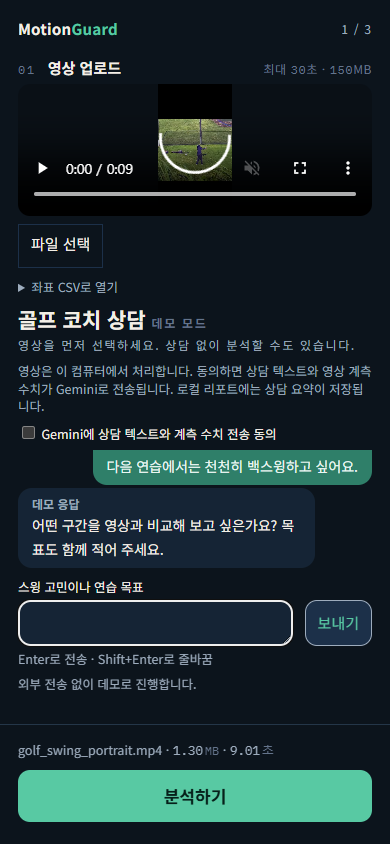
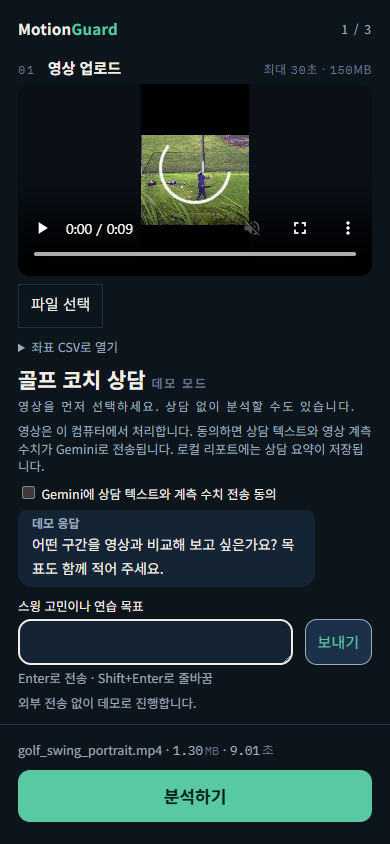
Fill the vertical coaching layout on both screen sizes

Changed region(s): [[0.0308, 0.1232, 0.9538, 0.8626]]

diff --git a/swing3d/web/style.css b/swing3d/web/style.css
@@ -73,9 +73,6 @@ td { text-align: right; white-space: nowrap; }
 .legend { display: flex; gap: 16px; flex-wrap: wrap; margin-top: 12px; font-size: 12px; }
 .legend i { display: inline-block; width: 8px; height: 2px; background: var(--signal); vertical-align: middle; }
 .visually-hidden { position: absolute; width: 1px; height: 1px; clip-path: inset(50%); overflow: hidden; white-space: nowrap; }
-@media (min-width: 1280px) { .setup { grid-template-columns: 1fr 1fr; } }
-@media (max-width: 880px) { .stills { grid-template-columns: repeat(2, minmax(0, 1fr)); } }
-@media (max-width: 490px) { .stills { grid-template-columns: 1fr; } .instrument { width: calc(100% - 24px); margin-top: 24px; } }
 @media (prefers-reduced-motion: reduce) { * { scroll-behavior: auto !important; } }
 .finding-layout { display:grid; gap:16px; }
 .result-block { border-top:1px solid var(--rule); padding-top:12px; min-width:0; }
@@ -96,7 +93,6 @@ td { text-align: right; white-space: nowrap; }
 .viewer-ruler button:nth-child(even) { top:12px; }
 .viewer-ruler button:last-child { transform:translateX(-100%); }
 .finding-band { position:absolute; top:0; height:2px; background:var(--signal); }
-@media(min-width:1280px) { .finding-layout { grid-template-columns:1fr 1fr; } }
 
 
 .comparison-panes { display:grid; grid-template-columns:repeat(2,minmax(0,1fr)); gap:16px; padding:0 16px 12px; }
@@ -118,13 +114,11 @@ td { text-align: right; white-space: nowrap; }
 .finding-options button { text-align:left; }
 .finding-options .finding-numbers { display:grid; font-size:12px; }
 .finding-options .finding-numbers > span { white-space:nowrap; }
-.comparison-panes .video-stage { max-width:var(--portrait-width,100%); margin-inline:auto; }
-#mobile-pose,#mobile-toggle,#mobile-values,#mobile-finding { display:none; }
-@media(max-width:719px) {
+.comparison-panes .video-stage { margin-inline:auto; }
+
   #overlay { display:flex; flex-direction:column; }
   .comparison-panes { display:block; padding:0; }
   .comparison-panes > :nth-child(2), .comparison-panes .pane-label, #compare-values,#compare-cue,#compare-warning { display:none; }
-  .comparison-panes .video-stage { width: min(calc(100% - 2px), var(--mobile-video-width,100%)); }
   #mobile-pose,#mobile-toggle,#mobile-values,#mobile-finding { display:block; }
   #mobile-pose { opacity:.8; visibility:hidden; }
   #joints { z-index:1; }
@@ -136,7 +130,6 @@ td { text-align: right; white-space: nowrap; }
   #factor-transport { order:0; }
   #video-transport { order:1; }
   #comparison-controls { order:2; }
-}
 #coach-panel { border-block:1px solid var(--rule); padding:12px 0; margin:12px 0; }
 #coach-panel h3 { margin:0; font-size:16px; }
 #coach-panel p, #coach-panel label { display:block; margin:4px 0; }
@@ -184,7 +177,7 @@ td { text-align: right; white-space: nowrap; }
 #result-actions { margin-top:auto; }
 #result-details > summary { padding:0 18px; }
 #playback-details > summary { display:none; }
-.instrument:not([data-step="3"]) { width:min(100%, 560px); }
+.instrument:not([data-step="3"]) { width:min(100%, 840px); }
   .instrument h2 { font-size:21px; font-weight:700; line-height:1.35; }
   .instrument :is(.caption,.index,small,#ticks button) { font-size:12px; }
   .setup,#upload,#upload>.section-body { flex:1; display:flex; flex-direction:column; min-height:0; }
@@ -221,8 +214,8 @@ td { text-align: right; white-space: nowrap; }
   #finding-pager button,#flow-back { border-radius:12px; }
   #compare-factor { accent-color:var(--em); }
   #open-report { background:transparent; color:var(--ink-2); border:1px solid var(--rule); }
-@media(max-width:719px) {
-  .instrument { width:100%; }
+
+  .instrument { width:min(100%, 840px); }
   #overlay { position:relative; }
   #overlay > header { display:none; }
   #mobile-finding { padding:4px 65px 4px 18px; font-weight:700; font-size:14.5px; }
@@ -242,5 +235,24 @@ td { text-align: right; white-space: nowrap; }
   #result-actions { padding-top:8px; padding-bottom:12px; }
   #flow-back { min-height:44px; border-radius:12px; font-size:13px; }
   #open-report { background:transparent; color:var(--ink-2); border:1px solid var(--rule); }
-}
 .summary-fields { grid-template-columns:1fr; }
+
+/* The same vertical flow uses the available height on every screen. */
+.instrument[data-step="3"] #overlay { flex:1; min-height:0; }
+#comparison-panes { flex:1; min-height:180px; container-type:size; }
+#comparison-panes > :first-child { height:100%; display:grid; place-items:center; }
+.comparison-panes .video-stage {
+  width:min(calc(100% - 2px), calc(min(100cqh, 420px) * var(--video-aspect, 1.7778)));
+  max-width:none;
+}
+#upload-preview { flex:2 1 132px; height:0; min-height:105px; max-height:none; }
+#coach-panel { flex:3 1 260px; }
+#coach-log { flex:1; min-height:0; max-height:none; }
+#coach-log:empty { background:var(--panel); border-radius:12px; }
+#upload:not(:has(#upload-preview:not([hidden]))) #drop { flex:1; display:grid; align-content:center; justify-items:start; gap:8px; }
+.summary-fields { flex:1; grid-auto-rows:minmax(64px,1fr); }
+.summary-fields label { display:flex; flex-direction:column; }
+.summary-fields textarea { flex:1; min-height:28px; }
+#overlay,#upload { min-width:0; }
+.instrument { height:100dvh; min-height:fit-content; }
+.flow-foot { flex:none; }

diff --git a/swing3d/web/instrument.js b/swing3d/web/instrument.js
@@ -366,9 +366,7 @@
     if (!evidence || !video.videoWidth) return;
     const overlay = byId("overlay");
     const aspect = video.videoWidth / video.videoHeight;
-    overlay.style.setProperty("--mobile-video-width", 420 * aspect + "px");
-    if (aspect < 1) overlay.style.setProperty("--portrait-width", 590 * aspect + "px");
-    else overlay.style.removeProperty("--portrait-width");
+    overlay.style.setProperty("--video-aspect", aspect);
     const mobile = byId("mobile-pose");
     if (mobile.width !== video.videoWidth || mobile.height !== video.videoHeight) {
       mobile.width = video.videoWidth;
@@ -433,15 +431,14 @@
     canvas.dataset.pelvis = SwingPoseAvatar.anatomy(skeleton).pelvis.join(",");
     alternate.dataset.pelvis = SwingPoseAvatar.anatomy(displayed).pelvis.join(",");
     paintCue(skeleton, displayed, scale);
-    if (mobileView.matches) mobileContext.drawImage(alternate, 0, 0);
+    mobileContext.drawImage(alternate, 0, 0);
   }
 
-  const mobileView = matchMedia("(max-width: 719px)");
-  byId("playback-details").open = !mobileView.matches;
+  byId("playback-details").open = false;
   let swipeStart;
   const panes = byId("comparison-panes");
   panes.addEventListener("pointerdown", event => {
-    if (mobileView.matches && event.pointerType === "touch") {
+    if (event.pointerType === "touch") {
       swipeStart = [event.clientX, event.clientY];
       panes.setPointerCapture(event.pointerId);
     }
@@ -493,11 +490,7 @@
     if (event.key === " " || event.key === "Enter") { event.preventDefault(); mobileMode(false); }
   });
   compareToggle.addEventListener("blur", () => mobileMode(false));
-  mobileView.addEventListener("change", () => {
-    byId("playback-details").open = !mobileView.matches;
-    byId("comparison-controls").open = !mobileView.matches;
-    updateOverlay();
-  });
+
 
   function sampleIndex(frame) {
     const start = comparison.track.meta.source_frames?.[0] ?? 0;
@@ -745,7 +738,7 @@
     byId("finding-prev").onclick = () => chooseFinding(comparison.options[position - 1].id);
     byId("finding-next").onclick = () => chooseFinding(comparison.options[position + 1].id);
     compareToggle.disabled = !!activeFinding.positive;
-    if (mobileView.matches && seek) byId("comparison-controls").open = false;
+    if (seek) byId("comparison-controls").open = false;
     mobileMode(false);
     for (const button of byId("finding-options").querySelectorAll("button")) {
       const numbers = button.querySelector(".finding-numbers");
@@ -886,7 +879,7 @@
     byId("comparison-unavailable").hidden = !!evidence;
     byId("compare-range").hidden = true;
     byId("compare-values").replaceChildren();
-    byId("comparison-controls").open = !mobileView.matches;
+    byId("comparison-controls").open = false;
     byId("mobile-finding").textContent = "선택할 비교 항목 없음";
     compareToggle.disabled = true;
     mobileMode(false);

diff --git a/swing3d/web/report.css b/swing3d/web/report.css
@@ -29,18 +29,9 @@ td .reference { display:block; }
 a { color:inherit; text-underline-offset:2px; }
 dt { font-weight:600; }
 dd { margin:0 0 8px; color:var(--ink-2); }
-@media(max-width:570px) { #report-stills { grid-template-columns:repeat(2,minmax(0,1fr)); } }
 #report-image img { aspect-ratio:auto; display:block; }
 .print-help { color:var(--ink-2); font-size:12px; }
 .finding-still { max-width:180px; margin:6px 0; }
-@media(max-width:570px) {
-  .sheet { margin-top:12px; }
-  .report-head, section { padding-block:8px; }
-  #report-answer { line-height:1.5; }
-  #report-answer p { margin:2px 0; }
-  #report-answer h2 { margin:0; }
-  #report-image img { max-height:220px; object-fit:contain; }
-}
 @media print {
   .report-next, .report-limits, .report-appendix { break-before:page; }
 }
@@ -54,7 +45,7 @@ dd { margin:0 0 8px; color:var(--ink-2); }
   :root[data-theme="dark"] { --paper:#0C141C; --ink:#F3EFE6; --ink-2:#9DACBD; --ink-3:#64748B; --rule:#243648; --signal:#E8A33D; }
 }
 @media screen {
-  .sheet { width:min(100%, 560px); margin:0 auto; padding:16px 18px 12px; }
+  .sheet { width:min(100%, 840px); margin:0 auto; padding:16px 18px 12px; }
   .report-head { border:0; padding:0 0 8px; }
   #title,#facts { display:none; }
   .report-head .row { margin:8px 0 0; }
@@ -82,4 +73,13 @@ dd { margin:0 0 8px; color:var(--ink-2); }
   .scroller { overflow:visible; }
   th, td { white-space:normal; padding:4px; }
   a { overflow-wrap:anywhere; }
+}
+
+@media screen {
+  #report-stills { grid-template-columns:1fr; }
+  .sheet { height:100dvh; display:flex; flex-direction:column; }
+  #report-body { flex:1; min-height:0; display:flex; flex-direction:column; }
+  #report-comparison { flex:1; min-height:200px; display:flex; flex-direction:column; }
+  #report-image,#report-image figure { flex:1; min-height:0; display:flex; flex-direction:column; }
+  #report-image img { flex:1; height:0; min-height:150px; aspect-ratio:auto; object-fit:contain; }
 }
